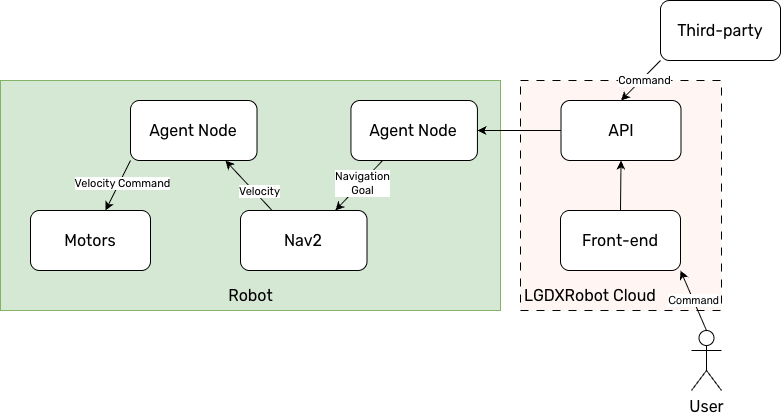
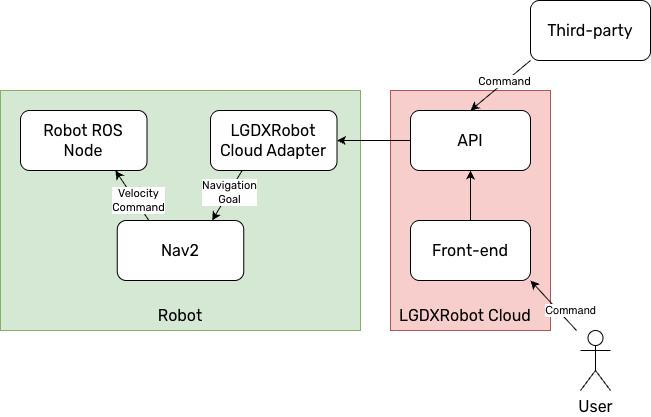
update

diff --git a/content/cloud/design/how-it-works.md b/content/cloud/design/how-it-works.md
@@ -3,16 +3,19 @@ title: How it Works
 weight: 1
 ---
 
-In fact, LGDXRobot Cloud is a web service that relays messages between the user and a robot running ROS 2. The **LGDXRobot Agent Node** acts as the intermediary between the cloud system and the robot, collecting data from the robot and sending commands back to it.
+In fact, LGDXRobot Cloud is a web service that relays messages between the user and a robot running ROS 2. The **LGDXRobot Cloud Adaptor** acts as the intermediary between the cloud system and the robot, collecting data from the robot and sending commands back to it.
+
+The Robot ROS Node describes the ROS 2 integration for the robot hardware.
+{.alert .alert-info}
 
 ## From the Robot to the User
 
 ![Data Flow To User](../img/how-it-works/info-to-user.png)
 
-LGDXRobot Cloud displays the robot’s status, including navigation data, location, and battery level. These data originate from the Sensor and Nav2 / ROS 2 nodes. The Agent node collects the data and sends it to the API, which then forwards it to the front-end. Data requiring real-time delivery is pushed to a Redis queue. The front-end subscribes to this queue and updates the UI in real time.
+LGDXRobot Cloud displays the robot’s status, including navigation data, location, and battery level. These data originate from the robot ROS node and Nav2. The LGDXRobot Cloud Adaptor collects the data and sends it to the API, which then forwards it to the front-end. Data requiring real-time delivery is pushed to a Redis queue. The front-end subscribes to this queue and updates the UI in real time.
 
 ## From the User to the Robot
 
 ![Data Flow To Robot](../img/how-it-works/command-to-robot.png)
 
-When a user wants to command a robot, they create a Task on the front end. A Task consists of waypoints that specify the positions the robot must reach. The request is sent to the API and then forwarded to the Agent node. The Agent node sends the waypoints as navigation goals to Nav2. Nav2 plans the path, generates the appropriate velocity commands, and returns them to the Agent node, which then sends the velocity commands to the robot. The robot moves accordingly. For the third-party system, it sends the commands directly to the API.
+When a user wants to command a robot, they create a Task on the front end. A Task consists of waypoints that specify the positions the robot must reach. The request is sent to the API and then forwarded to the LGDXRobot Cloud Adaptor. The LGDXRobot Cloud Adaptor sends the waypoints as navigation goals to Nav2. Nav2 plans the path, generates the appropriate velocity commands, and send them to robot ROS node. The robot moves accordingly. For the third-party system, it sends the commands directly to the API.

diff --git a/content/cloud/_index.md b/content/cloud/_index.md
@@ -5,7 +5,7 @@ homepage: https://lgdxrobot.bristolgram.uk/cloud/
 weight: 2
 ---
 
-LGDXRobot Cloud is a robot management system for Automated Guided Vehicles (AGVs), designed with a focus on flexibility and security. It can monitor the status of robots in real-time and manage automated tasks for transportation and logistics. The system is also designed to support easy integration with third-party services and workflows. It integrates seamlessly with the [LGDXRobot2](https://lgdxrobot.bristolgram.uk/lgdxrobot2/) robot, providing a solid foundation for a robotics solution.
+LGDXRobot Cloud is a robot management system for Automated Guided Vehicles (AGVs), designed with a focus on flexibility and security. It can monitor the status of robots in real-time and manage automated tasks for transportation and logistics. The system is also designed to support easy integration with third-party services and workflows. It integrates seamlessly with the [LGDXRobot2](https://lgdxrobot.bristolgram.uk/lgdxrobot2/) robot, as well as open integrations with any ROS 2-compatible robot with `LGDXRobot Cloud Adapter`.
 
 To begin learning about LGDXRobot Cloud, click the **NEXT Setup >** link at the bottom of the page.
 
@@ -21,8 +21,8 @@ To begin learning about LGDXRobot Cloud, click the **NEXT Setup >** link at the 
 
 ## Links
 
-* [GitLab Repository](https://gitlab.com/lgdxrobotics/lgdxrobot-cloud)
-* [GitHub Repository (Mirror)](https://github.com/yukaitung/lgdxrobot-cloud)
+* LGDXRobot Cloud: ([GitLab](https://gitlab.com/lgdxrobotics/lgdxrobot-cloud) | [GitHub](https://github.com/yukaitung/lgdxrobot-cloud))
+* LGDXRobot Cloud Adapter: ([GitLab](https://gitlab.com/lgdxrobotics/lgdxrobot-cloud-adapter) | [GitHub](https://github.com/yukaitung/lgdxrobot-cloud-adapter))
 * [Docker Image for LGDXRobotCloud.API](https://hub.docker.com/r/yukaitung/lgdxrobotcloud-api)
 * [Docker Image for LGDXRobotCloud.UI](https://hub.docker.com/r/yukaitung/lgdxrobotcloud-ui)
 * [Docker Image for LGDXRobotCloud.Worker](https://hub.docker.com/r/yukaitung/lgdxrobotcloud-worker)
